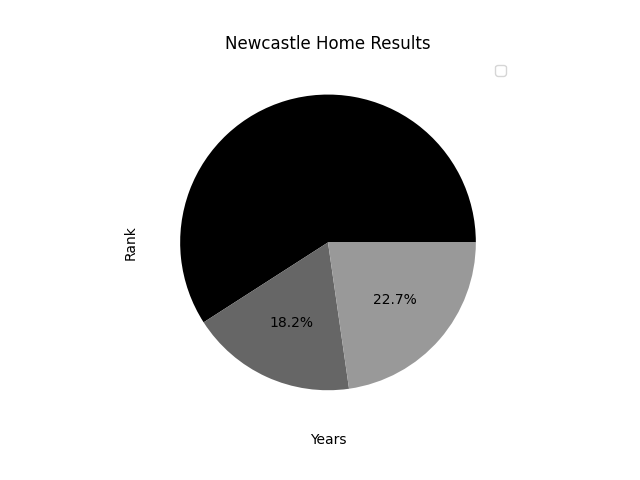
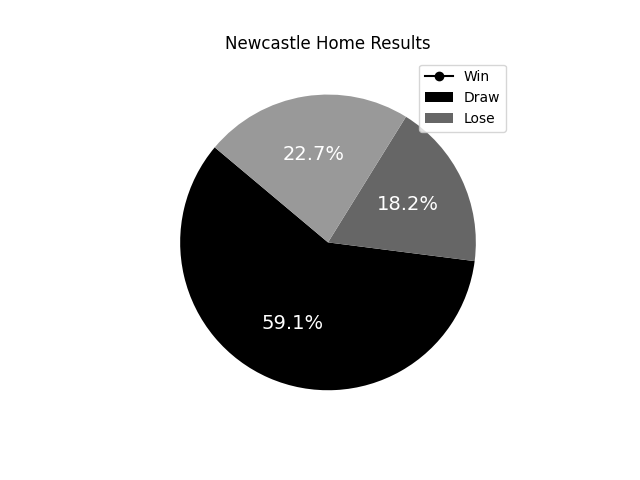
Plot Colours

Changed region(s): [[0.3125, 0.125, 0.7812, 0.8125], [0.4688, 0.9062, 0.5625, 0.9375], [0.1875, 0.4688, 0.2188, 0.5625]]

diff --git a/main.py b/main.py
@@ -523,30 +523,27 @@ with tab2:
 	x = [1, 2, 3, 4, 5, 6, 7, 8, 9, 10, 11, 12, 13, 14, 15, 16]
 	rank = list(standings_dict.values())
 	years = list(standings_dict.keys())
-	ic(years)
-	ic(rank)
+	colours = ['#000000', '#3d3d3d', '#8a8a8a']
 	labelx = [1, 2, 3, 4, 5, 6, 7, 8, 9, 10, 11, 12, 13, 14, 15, 16]
 
 
 
 
 	with col1:
-		# plt.style.use('grayscale')
+		plt.style.use('grayscale')
 		plt.plot(years, rank, marker='o')
 		for i in range(len(years)):
-			plt.text(years[i], rank[i], str(rank[i]), fontsize=12, va='bottom', ha='left', wrap=True, color='blue')
+			plt.text(years[i], rank[i], str(rank[i]), fontsize=12, va='bottom', ha='left', wrap=True, color='red')
 		plt.yticks(range(int(min(rank)), int(max(rank)) + 1))
-		plt.gca().yaxis.set_major_formatter(ticker.FuncFormatter(lambda rank, _: int(rank)))
+		# plt.gca().yaxis.set_major_formatter(ticker.FuncFormatter(lambda rank, _: int(rank)))
 		plt.xlabel('Years')
 		plt.ylabel('Rank')
 		plt.title('Newcastle Standings by Year')
 		plt.savefig('data/plot.png')
 		plt_rank_time = 'data/plot.png'
 		image = Image.open(plt_rank_time)
-		# Add rounded corners to the image
-		radius = 20  # Adjust the radius for the corners
+		radius = 20
 		rounded_image = add_rounded_corners(image, radius)
-		# Display the image with rounded corners using Matplotlib
 		st.image(rounded_image)
 
 	with col2:
@@ -560,6 +557,8 @@ with tab2:
 		away_lose = []
 		results_home = []
 		results_away = []
+		legend_home = ['Win', 'Draw', 'Lose']
+		legend_away = ['Win', 'Draw', 'Lose']
 
 		for v in response_standings['response']:
 			if 'Premier League' in v['league']['name']:
@@ -578,8 +577,10 @@ with tab2:
 		results_home.append(hme_draw_perc)
 		results_home.append(hme_lose_perc)
 
-		plt.pie(results_home, autopct='%1.1f%%')
-		plt.legend(loc='best')
+		plt.pie(results_home, textprops={'color': 'white', 'fontsize': 14}, autopct='%1.1f%%', startangle=140, colors=colours)
+		plt.legend(legend_home, loc='best')
+		plt.xlabel('')
+		plt.ylabel('')
 		plt.title('Newcastle Home Results')
 		plt.savefig('data/plot_home_results.png')
 		plt_home_time = 'data/plot_home_results.png'
@@ -609,8 +610,8 @@ with tab2:
 		results_away.append(away_draw_perc)
 		results_away.append(away_lose_perc)
 
-		plt.pie(results_away, autopct='%1.1f%%')
-		plt.legend(loc='best')
+		plt.pie(results_away, textprops={'color': 'white', 'fontsize': 14}, autopct='%1.1f%%', startangle=140, colors=colours)
+		plt.legend(legend_away, loc='best')
 		plt.title('Newcastle Away Results')
 		plt.savefig('data/plot_away_results.png')
 		plt_away_time = 'data/plot_away_results.png'
